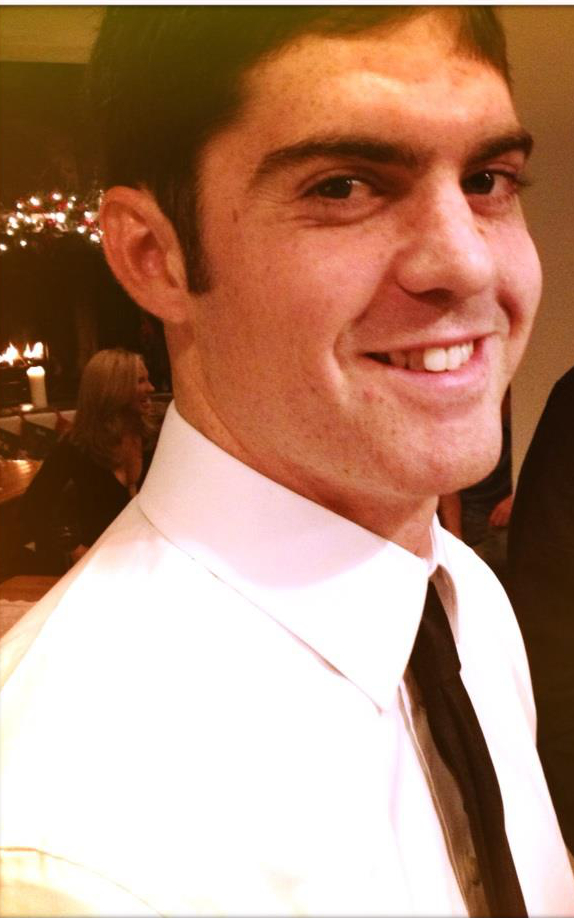
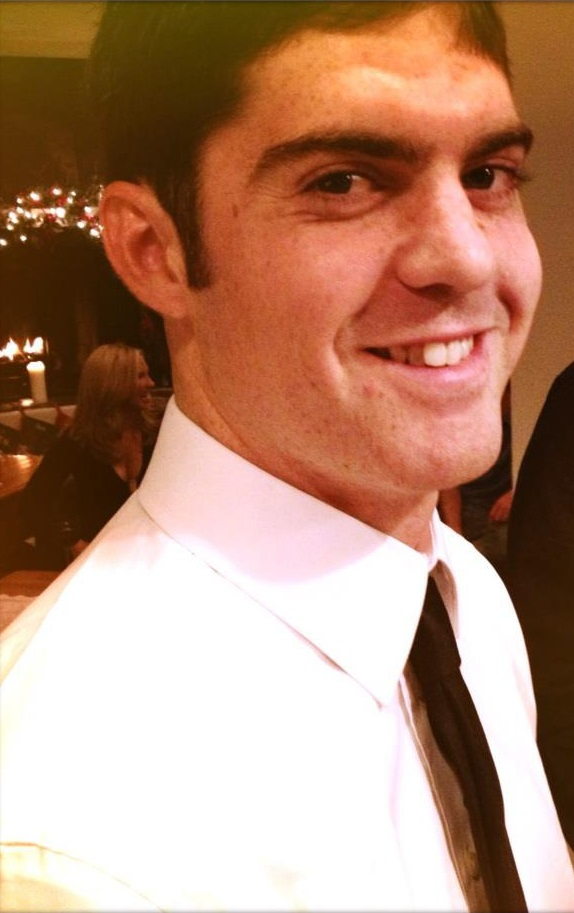
Making some style and layout tweaks. Cropped main image to remove white space at top

diff --git a/index.html b/index.html
@@ -18,38 +18,40 @@
     <div class="row header">
         <div class="col-xs-12 text-center">
             <h1>Steven Cipriano</h1>
-            <a href="mailto:cipriano.steven@gmail.com" title="cipriano.steven@gmail.com">cipriano.steven@gmail.com</a>
-        </div>
-    </div>
-
-    <div class="row info-row">
-        <div class="col-xs-12 col-md-6 text-justify blurb">
-            <p>Software engineer and fullstack web developer. Currently working at <a href="https://radius.com" target="_blank" title="Radius">Radius</a> with big data aggregation and processing. Has previously worked on digital art display and distribution with <a href="https://depict.com" target="_blank" title="Depict">Depict</a>, experiential content with <a href="https://gophigital.com" target="_blank" title="Phigital">Phigital</a>, and semiconductor processing with <a href="https://ibm.com">IBM</a>.</p>
-        </div>
-
-        <div class="col-xs-12 col-md-6 info-icons">
-            <div class="row">
-                <div class="col-xs-12 col-md-6 text-center md-vertical-align">
-                    <a href="https://www.linkedin.com/in/scipriano" target="_blank" class="info-link"><i class="fa fa-linkedin-square"></i></a>
-                    <a href="https://github.com/bobo333" target="_blank" class="info-link"><i class="fa fa-github-square"></i></a>
-                    <a href="pdf/steven_cipriano.pdf" target="_blank" title="Resume" clas="info-link"><i class="fa fa-file-text-o"></i></a>
-                </div><ul class="col-xs-12 col-md-6 languages md-vertical-align">
-                    <li>Python</li>
-                    <li>Ruby (and RoR)</li>
-                    <li>SQL</li>
-                    <li>Javascript</li>
-                    <li>Mac OS/Linux/Windows</li>
-                </ul>
+            <div class="email-address">
+                <a href="mailto:cipriano.steven@gmail.com" title="cipriano.steven@gmail.com">cipriano.steven@gmail.com</a>
+            </div>
+            <div class="social-icons">
+                <a href="https://www.linkedin.com/in/scipriano" target="_blank" class="social-link"><i class="fa fa-linkedin-square"></i></a>
+                <a href="https://github.com/bobo333" target="_blank" class="social-link"><i class="fa fa-github-square"></i></a>
+                <a href="pdf/steven_cipriano.pdf" target="_blank" title="Resume" clas="social-link"><i class="fa fa-file-text-o"></i></a>
             </div>
         </div>
     </div>
 
-    <div class="row">
-        <div class="col-xs-10 col-xs-offset-1 col-md-4 main-img-container">
+    <div class="row info-row">
+        <div class="col-xs-10 col-xs-offset-1 col-sm-4 col-sm-offset-2 main-img-container">
             <img src="img/main.jpg" class="img-responsive main-img">
         </div>
 
-        <div class="col-xs-12 col-md-6 col-md-offset-1">
+        <div class="col-xs-12 col-sm-4 blurb">
+            <p>Software engineer and fullstack web developer. Currently working at <a href="https://radius.com" target="_blank" title="Radius">Radius</a> with big data aggregation and processing. Has previously worked on digital art display and distribution with <a href="https://depict.com" target="_blank" title="Depict">Depict</a>, experiential content with <a href="https://gophigital.com" target="_blank" title="Phigital">Phigital</a>, and semiconductor processing with <a href="https://ibm.com">IBM</a>.</p>
+        </div>
+
+        <div class="col-xs-10 col-sm-4">
+            <ul class="skills">
+                <li>Python</li>
+                <li>Ruby (and RoR)</li>
+                <li>MySQL / PostgreSQL</li>
+                <li>Javascript (and Node.js)</li>
+                <li>Apache / AWS</li>
+                <li>Mac OS / Linux / Windows</li>
+            </ul>
+        </div>
+    </div>
+
+    <div class="row">
+        <div class="col-xs-12 col-sm-8 col-sm-offset-2">
             <div class="row">
                 <div class="col-xs-12">
                     <div class="section-title"><h2>Recent Projects</h2></div>
@@ -75,7 +77,7 @@
                             </a>
                         </li>
                         <li class="project row">
-                            <a href="https://depict.com" target="_blank">
+                            <a href="http://aboundapp.com" target="_blank">
                                 <div class="project-logo-container col-xs-3 vertical-align">
                                     <img src="img/logos/abound.png" class="img-responsive project-logo">
                                 </div><div class="project-text col-xs-9 vertical-align">

diff --git a/css/main.css b/css/main.css
@@ -50,6 +50,27 @@ a, a:visited, a:hover {
     margin-bottom: 40px;
 }
 
+.email-address {
+    margin-top: 10px;
+}
+
+.social-icons {
+    font-size: 30px;
+    margin-top: 10px;
+}
+
+.social-icons .fa {
+    vertical-align: top;
+}
+
+.social-icons .social-link {
+    margin-right: 10px;
+}
+
+.social-icons .social-link:last-child {
+    margin-right: 0px;
+}
+
 .info-row {
     margin-bottom: 40px;
 }
@@ -60,37 +81,20 @@ a, a:visited, a:hover {
 
 @media (min-width: 992px) {
     .blurb {
-        margin-bottom: 0px;
+        margin-bottom: 20px;
     }    
 }
 
-.info-icons {
-    font-size: 40px;
+@media (min-width: 768px) and  (max-width: 840px) {
+    .blurb {
+        margin-bottom: 10px;
+    }
 }
 
-.info-icons .fa {
-    vertical-align: top;
-}
-
-.info-icons .info-link {
-    margin-right: 10px;
-}
-
-.info-icons .info-link:last-child {
-    margin-right: 0px;
-}
-
-.languages {
+.skills {
     font-style: italic;
     font-size: 16px;
     margin-bottom: 20px;
-    text-align: center;
-}
-
-@media (min-width: 992px) {
-    .languages {
-        text-align: center;
-    }    
 }
 
 .main-img-container {
@@ -98,8 +102,15 @@ a, a:visited, a:hover {
 }
 
 .main-img {
-    max-height: 500px;
     margin: 0 auto;
+    border-radius: 3px;
+    box-shadow: 0px 0px 15px 0px hsl(0,0%,75%);
+}
+
+@media (max-width: 991px) {
+    .main-img {
+        max-height: 500px;
+    }
 }
 
 .project {
